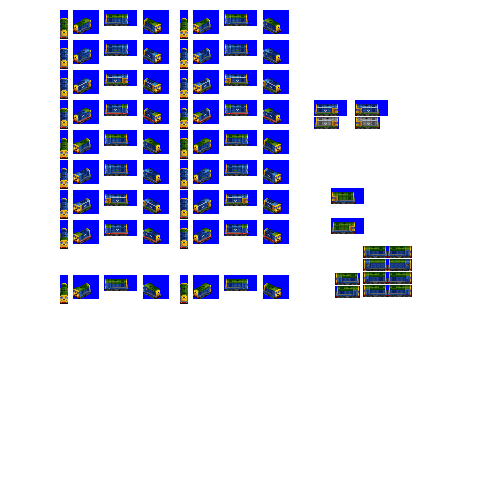
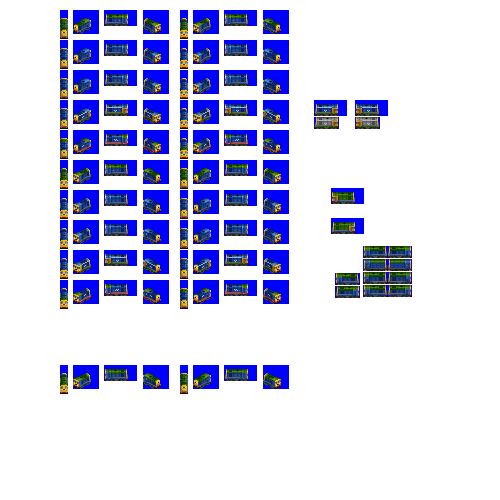
Change: extra livery for chinook

diff --git a/src/vehicles/pony/chinook.py b/src/vehicles/pony/chinook.py
@@ -17,7 +17,13 @@ def main(**kwargs):
         gen=4,
         intro_year_offset=-1,  # let's not have everything turn up in 1960
         fixed_run_cost_points=118,  # minor run cost bonus as default algorithm makes run cost too high
-        liveries=["SLABSIDE", "STOCK_STANDARD", "RAILFREIGHT_RED_STRIPE", "SPECIAL_CIRCUMSTANCES"],
+        liveries=[
+            "SLABSIDE",
+            "BANGER_BLUE",
+            "STOCK_STANDARD",
+            "RAILFREIGHT_RED_STRIPE",
+            "SUPERGRAPHIC",
+        ],
         sprites_complete=True,
     )
 
